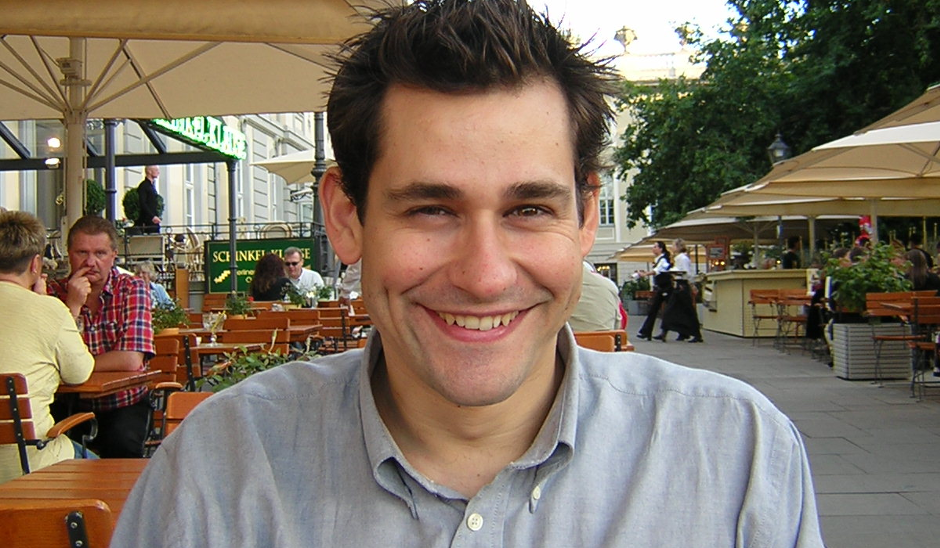
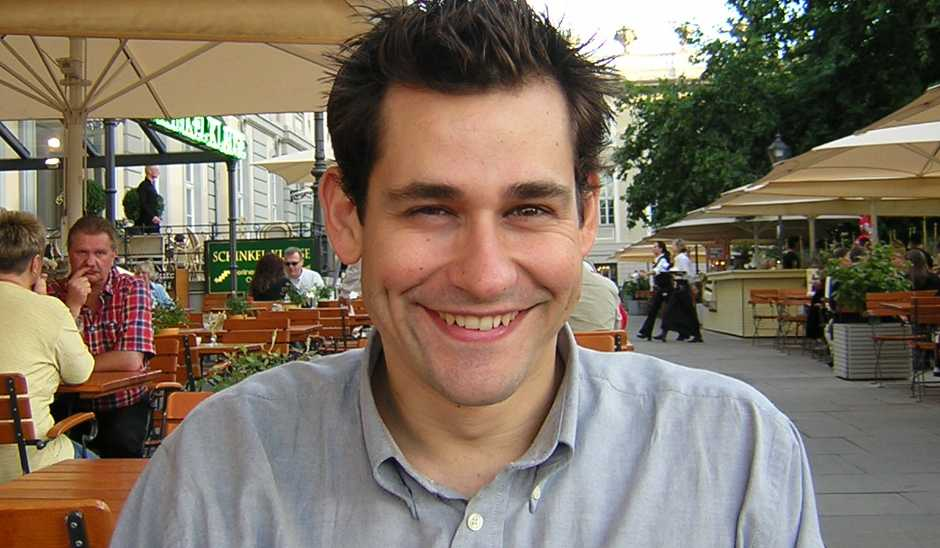
Update profile photo.

diff --git a/about.md b/about.md
@@ -12,5 +12,5 @@ I tend to build cross-functional teams, with a lot of communication and
 collaboration. Teams where personal attitudes matter. Teams with clear
 vision, common goals and strong leadership.
 
-![Pic profile.](/assets/imedina-jekyll.png)
+![Pic profile.](/assets/imedina-jekyll.jpg)
 
